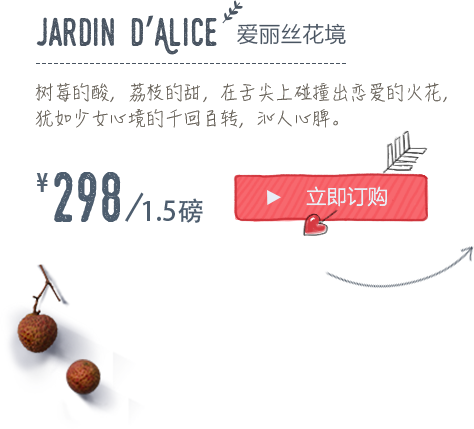
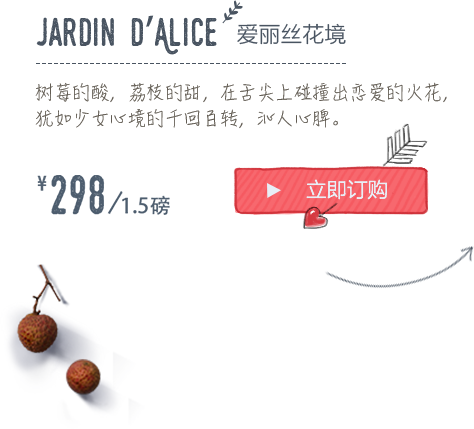
细节修改

Changed region(s): [[0.4726, 0.303, 0.9156, 0.5758], [0.0591, 0.3939, 0.443, 0.5152]]

diff --git a/src/white-loveDay/js/banner.js b/src/white-loveDay/js/banner.js
@@ -3,29 +3,44 @@
  */
 (function($){
 
-    var loadComplete = function () {
+  var loadComplete = function () {
 
-    };
+  };
 
-    var loadResource = function(){
-        var loader = new Resource.loadGroup("preload", resDataBanner);
-        var spin = Resource.el('#evt_spin');
+  var loadResource = function(){
+    if( typeof resData == 'object' && Array.isArray(resData.resources) && resData.resources.length > 0 ){
+      startLoader(resData);
+    } else {
+      var resLoader = new Resource.JSONloader('resBanner.json');
+      resLoader.on("success", function (res) {
+        startLoader(res);
+      });
+      resLoader.on("error", function () {
+        console.error("资源配置加载失败...");
+      });
+    }
 
-        loader.on("progress", function (loaded, total) {
-            spin.innerHTML = "loading: " + Math.floor(loaded / total * 100) + "%";
-        });
+    function startLoader(data) {
+      var loader = new Resource.loadGroup("preload", data);
+      var spin = Resource.el('#evt_spin');
 
-        loader.on("complete", function () {
-          Resource.el('#evt_loading').style.display = "none";
-          Resource.el('#evt_container').style.display = 'block';
-          correctPNG($('#evt_container').get(0));
-          bindScroll('#evt_container');
-          loadComplete();
-        });
-    };
+      loader.on("progress", function (loaded, total) {
+        spin.innerHTML = "loading: " + Math.floor(loaded / total * 100) + "%";
+      });
 
-    $(function(){
-        loadResource();
-    });
+      loader.on("complete", function () {
+        Resource.el('#evt_loading').style.display = "none";
+        Resource.el('#evt_container').style.display = 'block';
+        correctPNG($('#evt_container').get(0));
+        bindScroll('#evt_container');
+        loadComplete();
+      });
+    }
+
+  };
+
+  $(function(){
+    loadResource();
+  });
 
 })(jQuery);

diff --git a/src/white-loveDay/js/main.js b/src/white-loveDay/js/main.js
@@ -41,18 +41,17 @@
     
     function initJuanl() {
       var isOpen = false;
-      $("#juanl_ft").on("click", function () {
+      $("#juanl").on("click", function () {
         var $this = $(this);
-        $this.parent().toggleClass("open");
+        $this.toggleClass("open");
         if( isSupportCss3 ) {
-          $this.prev().height(isOpen ? 53 : 233);
+          $this.find(".juanl-body").height(isOpen ? 53 : 233);
         } else {
-          $this.prev().animate({
+          $this.find(".juanl-body").animate({
             height: isOpen ? 53 : 233
           }, 300, 'easeOutCubic');
         }
         isOpen = !isOpen;
-        $this.next().hide();
         juanlMc.stop().clear();
       });
     }

diff --git a/src/white-loveDay/index.html b/src/white-loveDay/index.html
@@ -96,9 +96,9 @@
             <div class="secItem sec1-p12" data-anim="slide-left" data-delay="0.8" data-offset="30">
                 <img src="images/book.png" width="195" height="182">
             </div>
-            <div class="secItem sec1-juanl" data-anim="slide-left" data-delay="1.6" data-offset="50">
+            <div id="juanl" class="secItem sec1-juanl" data-anim="slide-left" data-delay="1.6" data-offset="50">
                 <div class="juanl-body"></div>
-                <div id="juanl_ft" class="juanl-ft"></div>
+                <div class="juanl-ft"></div>
                 <div class="juanl-hint">
                     <div id="juanl_arrow"></div>
                 </div>

diff --git a/src/white-loveDay/css/main.css b/src/white-loveDay/css/main.css
@@ -50,6 +50,7 @@
 .evt-content .sec1-p1 .sec1-juanl {
   left: 560px;
   top: 80px;
+  cursor: pointer;
 }
 
 .evt-content .sec1-p1 .sec1-juanl.open .juanl-hint {
@@ -68,7 +69,6 @@
   width: 256px;
   height: 52px;
   background: url(../images/juanl-ft.png) no-repeat 85% 0;
-  cursor: pointer;
 }
 
 .evt-content .sec1-p1 .juanl-hint {
@@ -97,7 +97,7 @@
 
 .evt-content .sec1-p2-text .buy-btn {
   left: 233px;
-  top: 172px;
+  top: 166px;
 }
 
 .evt-content .sec1-p3 {

diff --git a/src/white-loveDay/sass/main.scss b/src/white-loveDay/sass/main.scss
@@ -45,6 +45,7 @@
     .sec1-juanl{
       left:560px;
       top:80px;
+      cursor: pointer;
       &.open{
         .juanl-hint{
           display: none;
@@ -64,7 +65,6 @@
       width:256px;
       height:52px;
       background: url(../images/juanl-ft.png) no-repeat 85% 0;
-      cursor: pointer;
     }
 
     .juanl-hint{
@@ -94,7 +94,7 @@
 
     .buy-btn{
       left:233px;
-      top:172px;
+      top:166px;
     }
   }
 
